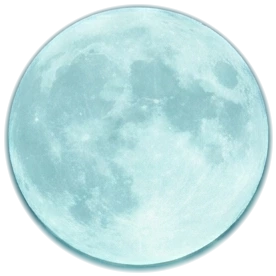
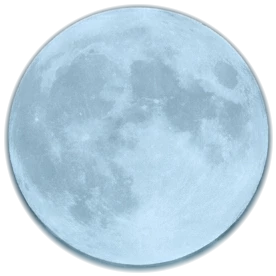
feat(legions): The Wake from the concept picture: gate and castle cut-outs, mossy cracked slabs with joints, roots, cool gray palette
Components cut from the user's pictures (castle on its cliff and the iron gate with its gargoyle from concept.jpg, real headstone and soil from the zombie-hand photos, bark from the painted trunk); board squares are cracked marble and mossy dark slabs set apart in the soil; roots creep over the ground; sky, moon, fog and light moved to the concept's cool gray.

Claude-Session: https://claude.ai/code/session_018q2YH8BR1Rpzfq7GRCQaXX

diff --git a/packages/legions/src/wakeCourt.ts b/packages/legions/src/wakeCourt.ts
@@ -37,6 +37,8 @@ import {
   Shape,
   ShapeGeometry,
   SphereGeometry,
+  CatmullRomCurve3,
+  TubeGeometry,
   Sprite,
   SpriteMaterial,
   SRGBColorSpace,
@@ -146,6 +148,83 @@ function groundTexture(base: [number, number, number], seed: number, cracks = 3)
   const t = new CanvasTexture(c);
   t.colorSpace = SRGBColorSpace;
   t.wrapS = t.wrapT = RepeatWrapping;
+  return t;
+}
+
+/** A weathered paving slab: pale cracked marble, or dark stone furred with moss; its edge chipped and dark. */
+function slabTexture(light: boolean, seed: number) {
+  const c = document.createElement("canvas");
+  c.width = c.height = 256;
+  const g = c.getContext("2d")!;
+  const r = stream(seed);
+  const base = light ? [166, 165, 160] : [40, 48, 45];
+  g.fillStyle = `rgb(${base})`;
+  g.fillRect(0, 0, 256, 256);
+  // Clouds in the stone.
+  for (let i = 0; i < 16; i++) {
+    const x = r() * 256;
+    const y = r() * 256;
+    const rad = 30 + r() * 70;
+    const d = (r() - 0.5) * (light ? 40 : 22);
+    const grad = g.createRadialGradient(x, y, 0, x, y, rad);
+    grad.addColorStop(0, `rgba(${base[0] + d},${base[1] + d},${base[2] + d + (light ? -4 : 2)},0.55)`);
+    grad.addColorStop(1, "rgba(0,0,0,0)");
+    g.fillStyle = grad;
+    g.fillRect(x - rad, y - rad, rad * 2, rad * 2);
+  }
+  for (let i = 0; i < 2600; i++) {
+    const d = (r() - 0.5) * (light ? 34 : 26);
+    g.fillStyle = `rgba(${base[0] + d},${base[1] + d},${base[2] + d},0.5)`;
+    g.fillRect(r() * 256, r() * 256, 1 + r() * 2.5, 1 + r() * 2.5);
+  }
+  // Rust-pink stains on the marble.
+  if (light)
+    for (let i = 0; i < 6; i++) {
+      const x = r() * 256;
+      const y = r() * 256;
+      const rad = 20 + r() * 40;
+      const grad = g.createRadialGradient(x, y, 0, x, y, rad);
+      grad.addColorStop(0, "rgba(176,140,134,0.28)");
+      grad.addColorStop(1, "rgba(176,140,134,0)");
+      g.fillStyle = grad;
+      g.fillRect(x - rad, y - rad, rad * 2, rad * 2);
+    }
+  // Moss, thick at the edges and along the cracks.
+  const mossN = light ? 18 : 70;
+  for (let i = 0; i < mossN; i++) {
+    const edge = r() < 0.65;
+    const x = edge ? (r() < 0.5 ? r() * 40 : 216 + r() * 40) : r() * 256;
+    const y = edge ? r() * 256 : r() * 256;
+    const rad = 4 + r() * (light ? 8 : 20);
+    const grad = g.createRadialGradient(x, y, 0, x, y, rad);
+    grad.addColorStop(0, `rgba(${58 + r() * 24},${96 + r() * 36},${44},${light ? 0.35 : 0.55})`);
+    grad.addColorStop(1, "rgba(60,100,46,0)");
+    g.fillStyle = grad;
+    g.fillRect(x - rad, y - rad, rad * 2, rad * 2);
+  }
+  // Cracks, with branches.
+  g.strokeStyle = light ? "rgba(34,30,30,0.75)" : "rgba(8,10,10,0.8)";
+  const crack = (x: number, y: number, ang: number, len: number, w: number) => {
+    g.lineWidth = w;
+    g.beginPath();
+    g.moveTo(x, y);
+    for (let i = 0; i < len; i++) {
+      ang += (r() - 0.5) * 0.9;
+      x += Math.cos(ang) * (8 + r() * 10);
+      y += Math.sin(ang) * (8 + r() * 10);
+      g.lineTo(x, y);
+      if (r() < 0.14 && len > 3) crack(x, y, ang + (r() < 0.5 ? 1 : -1) * (0.5 + r()), Math.floor(len / 2), w * 0.7);
+    }
+    g.stroke();
+  };
+  for (let k = 0; k < (light ? 4 : 3); k++) crack(r() * 256, r() < 0.5 ? 0 : 256, r() * Math.PI * 2, 9, light ? 1.9 : 1.5);
+  // The chipped dark edge.
+  g.strokeStyle = "rgba(6,8,8,0.6)";
+  g.lineWidth = 9;
+  g.strokeRect(0, 0, 256, 256);
+  const t = new CanvasTexture(c);
+  t.colorSpace = SRGBColorSpace;
+  t.anisotropy = 4;
   return t;
 }
 
@@ -269,7 +348,7 @@ const WATCHERS: [string, number, number, number, number, "peek" | "perch" | "flo
 
 const GROUND = -0.02;
 /** The haze: far ground, far trees and the sky's foot all meet in it. */
-const HAZE = 0x3b6068;
+const HAZE = 0x424c54;
 
 export function theWake(scene: Scene, board: Board): CourtSet {
   const group = new Group();
@@ -281,28 +360,30 @@ export function theWake(scene: Scene, board: Board): CourtSet {
   // ----- The board in the ground -----
   const squares = new Set(board.squares.values());
   for (const o of board.group.children) if (!squares.has(o as Mesh)) o.visible = false;
-  const gravel = [0, 1, 2].map((i) => groundTexture([104 + i * 4, 112, 110], 200 + i * 40));
-  const dirt = [0, 1, 2, 3].map((i) => groundTexture([36, 30, 27], 500 + i * 40));
-  dispose.push(...gravel, ...dirt);
-  const lightAt: Vector3[] = [];
-  const darkAt: Vector3[] = [];
+  const slabs = {
+    light: [0, 1, 2, 3].map((i) => slabTexture(true, 300 + i * 53)),
+    dark: [0, 1, 2, 3].map((i) => slabTexture(false, 700 + i * 53)),
+  };
+  dispose.push(...slabs.light, ...slabs.dark);
   for (const sq of board.squares.values()) {
     const was = sq.material as MeshStandardMaterial;
-    const pool = sq.userData.light ? gravel : dirt;
+    const pool = sq.userData.light ? slabs.light : slabs.dark;
     const map = pool[Math.floor(rng() * pool.length)].clone();
     map.needsUpdate = true;
-    map.repeat.set(0.4, 0.4);
-    map.offset.set(rng() * 0.6, rng() * 0.6);
-    map.wrapS = map.wrapT = RepeatWrapping;
+    // Each slab turned about at random, so no two read alike.
+    map.center.set(0.5, 0.5);
+    map.rotation = Math.floor(rng() * 4) * (Math.PI / 2);
     dispose.push(map);
-    sq.material = new MeshStandardMaterial({ map, roughness: 1, metalness: 0 });
+    sq.material = new MeshStandardMaterial({ map, roughness: sq.userData.light ? 0.75 : 0.9, metalness: 0 });
     was.dispose();
-    (sq.userData.light ? lightAt : darkAt).push(sq.position.clone());
+    // The slabs stand a little apart, the ground showing in the joints, some a touch tilted and sunk.
+    sq.scale.set(0.95, 1, 0.95);
+    sq.rotation.set((rng() - 0.5) * 0.012, (rng() - 0.5) * 0.03, (rng() - 0.5) * 0.012);
   }
-  // Broken stone standing up from the pale squares, pebbles on the dirt, and a rim of fallen stone round the plot.
+  // A rim of fallen stone round the plot.
   const chunkGeo = new DodecahedronGeometry(0.5, 0);
-  const chunkMat = new MeshStandardMaterial({ color: 0x5c6460, roughness: 1, flatShading: true });
-  const total = lightAt.length * 7 + darkAt.length * 3 + 110;
+  const chunkMat = new MeshStandardMaterial({ color: 0x484e4e, roughness: 1, flatShading: true });
+  const total = 110;
   const chunks = new InstancedMesh(chunkGeo, chunkMat, total);
   const m4 = new Matrix4();
   const q4 = new Quaternion();
@@ -316,8 +397,6 @@ export function theWake(scene: Scene, board: Board): CourtSet {
     chunks.setColorAt(n, new Color().setScalar(tint));
     n++;
   };
-  for (const p of lightAt) for (let i = 0; i < 7; i++) chunk(p.x + (rng() - 0.5) * 0.8, p.z + (rng() - 0.5) * 0.8, 0.14 + rng() * 0.24, 0.06 + rng() * 0.12, 0.14 + rng() * 0.22, 0.6 + rng() * 0.6);
-  for (const p of darkAt) for (let i = 0; i < 3; i++) chunk(p.x + (rng() - 0.5) * 0.8, p.z + (rng() - 0.5) * 0.8, 0.07 + rng() * 0.09, 0.04 + rng() * 0.05, 0.07 + rng() * 0.09, 0.4 + rng() * 0.3);
   for (let i = 0; i < 110 && n < total; i++) {
     const side = Math.floor(rng() * 4);
     const along = (rng() - 0.5) * 9.4;
@@ -361,33 +440,39 @@ export function theWake(scene: Scene, board: Board): CourtSet {
     (t, n) => {
       soil.map = t;
       soil.normalMap = n;
-      soil.color.set(0xb0aea8);
+      soil.color.set(0x7c8584);
       soil.needsUpdate = true;
     },
     26,
   );
 
-  const swap = (file: string, light: boolean) =>
-    photo(file, (t, n) => {
-      for (const sq of board.squares.values()) {
-        if (!!sq.userData.light !== light) continue;
-        const m = sq.material as MeshStandardMaterial;
-        const map = t.clone();
-        map.repeat.set(0.45, 0.45);
-        map.offset.set(Math.random() * 0.55, Math.random() * 0.55);
-        map.needsUpdate = true;
-        const nm = n.clone();
-        nm.repeat.copy(map.repeat);
-        nm.offset.copy(map.offset);
-        nm.needsUpdate = true;
-        dispose.push(map, nm);
-        m.map = map;
-        m.normalMap = nm;
-        m.needsUpdate = true;
-      }
-    });
-  swap("board-stone.webp", true);
-  swap("board-dirt.webp", false);
+  // Roots creeping over the ground and under the edge of the slabs.
+  const rootGeos: BufferGeometry[] = [];
+  for (let i = 0; i < 26; i++) {
+    const a = rng() * Math.PI * 2;
+    const r0 = 4.3 + rng() * 2;
+    const len = 5 + rng() * 9;
+    const pts: Vector3[] = [];
+    let ang = a + (rng() - 0.5) * 0.8;
+    let x = Math.sin(a) * r0;
+    let z = Math.cos(a) * r0;
+    for (let k = 0; k < 7; k++) {
+      pts.push(new Vector3(x, GROUND + 0.02 + (k % 2) * 0.04 + rng() * 0.05, z));
+      ang += (rng() - 0.5) * 0.9;
+      x += (Math.sin(ang) * len) / 7;
+      z += (Math.cos(ang) * len) / 7;
+    }
+    const w = 0.07 + rng() * 0.12;
+    const tube = new TubeGeometry(new CatmullRomCurve3(pts), 24, w, 5);
+    tube.scale(1, 0.7, 1);
+    rootGeos.push(tube);
+  }
+  const rootMat = new MeshStandardMaterial({ color: 0x2c2724, roughness: 1 });
+  const roots = new Mesh(mergeGeometries(rootGeos)!, rootMat);
+  rootGeos.forEach((g) => g.dispose());
+  roots.receiveShadow = true;
+  group.add(roots);
+  dispose.push(rootMat, roots.geometry);
 
   // ----- Sky, turning slowly, and the moon -----
   const skyMat = new MeshBasicMaterial({ side: BackSide, fog: false });
@@ -430,46 +515,72 @@ export function theWake(scene: Scene, board: Board): CourtSet {
   group.add(moonSprite, halo);
   dispose.push(moonMat, halo.material);
 
-  // ----- Far views: pictures of distant woods and ruins stand in the haze all round -----
-  // far-1 is the ruined castle (behind the black side); far-2.. are more views, put to either side of it in turn.
-  const farAngles = [0, 72, -72, 144, -144, 36, -36];
-  const panelWidth = 150;
-  for (let i = 1; i <= 7; i++) {
-    const t = optional(`far-${i}.webp`);
-    if (!t) continue;
-    const mat = new MeshBasicMaterial({ fog: false, transparent: true, depthWrite: false, color: 0xc4d6d8, side: DoubleSide });
-    const panel = new Mesh(new PlaneGeometry(panelWidth, panelWidth * (672 / 1584)), mat);
-    const a = Math.PI + (farAngles[i - 1] * Math.PI) / 180;
-    panel.position.set(Math.sin(a) * 88, GROUND + (panelWidth * (672 / 1584)) / 2 - 9, Math.cos(a) * 88);
-    panel.lookAt(0, panel.position.y, 0);
-    panel.renderOrder = -7 + i * 0.01;
-    group.add(panel);
-    dispose.push(mat, panel.geometry);
-    void t.then((tex) => {
-      mat.map = tex;
+  // ----- Far woods and the ruins, cut from the painted picture: ridges of dead trees, three deep, all round -----
+  // Each ridge is many slices of the picture's treeline (random widths, some turned about), standing in a ring
+  // and tinted lighter the farther off it is, so the forest edge reads in layers; the castle stands on the back one.
+  const woodsTex = optional("woods-tile.webp");
+  if (woodsTex)
+    void woodsTex.then((tex) => {
+      const SRC_W = 880;
+      const SRC_H = 672;
+      [
+        { r: 58, tint: 0x586870, order: -7, hgt: 24, y: -1.2 },
+        { r: 78, tint: 0x748690, order: -8, hgt: 30, y: -1.6 },
+        { r: 100, tint: 0x94a4ae, order: -9, hgt: 38, y: -2.2 },
+      ].forEach((ring) => {
+        const parts: BufferGeometry[] = [];
+        let ang = rng() * 6;
+        const end = ang + Math.PI * 2;
+        while (ang < end) {
+          const sw = 300 + Math.floor(rng() * 420);
+          const u0 = Math.floor(rng() * (SRC_W - sw));
+          const flip = rng() < 0.5;
+          const w = (ring.hgt * sw) / SRC_H;
+          const g = new PlaneGeometry(w, ring.hgt);
+          const uv = g.getAttribute("uv");
+          for (let i = 0; i < uv.count; i++) {
+            const u = uv.getX(i);
+            uv.setX(i, (u0 + (flip ? 1 - u : u) * sw) / SRC_W);
+          }
+          const arc = w / ring.r;
+          const am = ang + arc / 2;
+          g.rotateY(Math.PI);
+          g.translate(0, 0, ring.r);
+          g.rotateY(am + Math.PI);
+          g.translate(0, GROUND + ring.hgt / 2 + ring.y, 0);
+          parts.push(g);
+          ang += arc * 0.82;
+        }
+        const geo = mergeGeometries(parts)!;
+        parts.forEach((p) => p.dispose());
+        const mat = new MeshBasicMaterial({ map: tex, color: ring.tint, fog: false, transparent: true, depthWrite: false, side: DoubleSide, alphaTest: 0.04 });
+        const mesh = new Mesh(geo, mat);
+        mesh.renderOrder = ring.order;
+        mesh.frustumCulled = false;
+        group.add(mesh);
+        dispose.push(geo, mat);
+      });
+    });
+  // The castle on its cliff, high behind the black side, and the iron gate with its gargoyle at the far end of the board (both cut from the concept picture).
+  const standee = (file: string, w: number, h: number, at: Vector3, fog: boolean, tint: number, order: number) => {
+    const tex = optional(file);
+    if (!tex) return;
+    const mat = new MeshBasicMaterial({ fog, transparent: true, depthWrite: false, color: tint, alphaTest: 0.12, side: DoubleSide });
+    const m = new Mesh(new PlaneGeometry(w, h), mat);
+    m.position.copy(at);
+    m.lookAt(0, at.y, 0);
+    m.renderOrder = order;
+    group.add(m);
+    dispose.push(mat, m.geometry);
+    void tex.then((t) => {
+      const img = t.image as { width: number; height: number };
+      m.scale.x = (h * img.width) / img.height / w;
+      mat.map = t;
       mat.needsUpdate = true;
     });
-  }
-  // Far trees: photographs of dead trees cut out, standing in the fog (tree-1.. if given).
-  const treePics = [1, 2, 3, 4, 5, 6].map((i) => optional(`tree-${i}.webp`)).filter((x): x is Promise<Texture> => !!x);
-  treePics.forEach((p, k) => {
-    void p.then((tex) => {
-      const img = tex.image as { width: number; height: number };
-      for (let i = 0; i < 14; i++) {
-        const mat = new SpriteMaterial({ map: tex, color: 0x9cb0b2, alphaTest: 0.2, transparent: true });
-        const s = new Sprite(mat);
-        const a = rng() * Math.PI * 2;
-        const d = 34 + rng() * 40;
-        const h = 14 + rng() * 14;
-        s.center.set(0.5, 0.04);
-        s.scale.set(((h * img.width) / img.height) * (rng() < 0.5 ? -1 : 1), h, 1);
-        s.position.set(Math.sin(a) * d, GROUND, Math.cos(a) * d);
-        group.add(s);
-        dispose.push(mat);
-      }
-      void k;
-    });
-  });
+  };
+  standee("castle-hill.webp", 60, 74, new Vector3(34, GROUND + 28, -82), false, 0x8c9aa4, -6);
+  standee("gate.webp", 11, 14, new Vector3(0, GROUND + 6.6, -25), true, 0xb4bec4, 1);
 
   // ----- Dead trees all round, swaying -----
   const bark = barkTexture();
@@ -549,15 +660,23 @@ export function theWake(scene: Scene, board: Board): CourtSet {
     dispose.push(m);
     return m;
   });
-  photo("stone.webp", (t, n) => {
-    t.repeat.set(1.1, 1.1);
-    n.repeat.set(1.1, 1.1);
-    for (const m of stoneMats) {
-      m.map = t;
-      m.normalMap = n;
-      m.color.set(0x9aa0a0);
+  photo("stone-face.webp", (t, n) => {
+    // The photograph of a real headstone (its carving and moss): each variant shows a different part of it.
+    stoneMats.forEach((m, i) => {
+      const map = t.clone();
+      map.repeat.set(0.9, 0.6);
+      map.offset.set(0.05 + (i % 2) * 0.05, i < 2 ? 0.38 : 0.0);
+      map.needsUpdate = true;
+      const nm = n.clone();
+      nm.repeat.copy(map.repeat);
+      nm.offset.copy(map.offset);
+      nm.needsUpdate = true;
+      dispose.push(map, nm);
+      m.map = map;
+      m.normalMap = nm;
+      m.color.set(0xa0a8a8);
       m.needsUpdate = true;
-    }
+    });
   });
   HEAD_KINDS.forEach((kind, ki) => {
     const list = stones.get(kind);
@@ -773,9 +892,9 @@ export function theWake(scene: Scene, board: Board): CourtSet {
 
   // ----- Fog on the ground, in layers, and wisps -----
   const layers = [
-    { y: 0.12, color: 0x6a9096, alpha: 0.5, scale: 0.12, speed: 0.012 },
-    { y: 0.7, color: 0x547c84, alpha: 0.4, scale: 0.08, speed: -0.008 },
-    { y: 1.5, color: 0x486c76, alpha: 0.3, scale: 0.05, speed: 0.006 },
+    { y: 0.12, color: 0x8a9aa4, alpha: 0.5, scale: 0.12, speed: 0.012 },
+    { y: 0.7, color: 0x6e808c, alpha: 0.4, scale: 0.08, speed: -0.008 },
+    { y: 1.5, color: 0x5a6c78, alpha: 0.3, scale: 0.05, speed: 0.006 },
   ].map((l) => {
     const m = fogLayer(l.color, l.alpha, l.scale, l.speed, time);
     const p = new Mesh(new PlaneGeometry(190, 190).rotateX(-Math.PI / 2), m);
@@ -796,11 +915,11 @@ export function theWake(scene: Scene, board: Board): CourtSet {
   });
 
   // ----- Light -----
-  const moonLight = new DirectionalLight(0x9ad0e0, 1.0);
+  const moonLight = new DirectionalLight(0xb4c8d8, 1.0);
   moonLight.castShadow = true;
   Object.assign(moonLight.shadow.camera, { left: -9, right: 9, top: 9, bottom: -9 });
   moonLight.shadow.mapSize.set(1024, 1024);
-  const hemi = new HemisphereLight(0x5a8a98, 0x0a1210, 0.55);
+  const hemi = new HemisphereLight(0x6a7e8c, 0x0c1012, 0.55);
   group.add(moonLight, moonLight.target, hemi);
 
   const prevBg = scene.background;
@@ -818,7 +937,7 @@ export function theWake(scene: Scene, board: Board): CourtSet {
   return {
     // The rubble stands up to about 0.1 from the pale squares.
     markY: 0.12,
-    view: { fixed: false, pitch: 0.28, dist: 16, fov: 50, ty: 1.8 },
+    view: { fixed: false, pitch: 0.22, dist: 15, fov: 50, ty: 1.4 },
     orient(side) {
       group.rotation.y = side > 0 ? 0 : Math.PI;
     },
